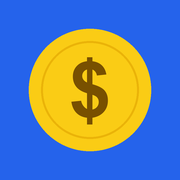
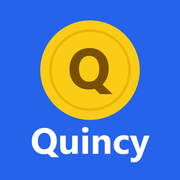
Íconos con el nombre Quincy y header sin el emoji

diff --git a/index.html b/index.html
@@ -22,11 +22,11 @@
       document.documentElement.dataset.theme = t;
     })();
   </script>
-  <link rel="stylesheet" href="styles.css?v=13">
+  <link rel="stylesheet" href="styles.css?v=14">
 </head>
 <body>
   <header class="topbar">
-    <h1 class="brand">💰 Presupuesto</h1>
+    <h1 class="brand">Quincy</h1>
     <span id="syncState" class="sync hidden" role="status" aria-live="polite"></span>
     <button id="installBtn" class="icon-btn hidden" type="button" aria-label="Instalar app" title="Instalar app">⬇</button>
     <button id="userBtn" class="icon-btn hidden" type="button" aria-label="Mi cuenta" title="Mi cuenta">👤</button>
@@ -433,7 +433,7 @@
   <div id="loader" class="loader hidden"><div></div></div>
 
   <script src="https://cdn.jsdelivr.net/npm/@supabase/supabase-js@2"></script>
-  <script src="config.js?v=13"></script>
-  <script src="app.js?v=13"></script>
+  <script src="config.js?v=14"></script>
+  <script src="app.js?v=14"></script>
 </body>
 </html>

diff --git a/sw.js b/sw.js
@@ -1,8 +1,8 @@
 // Service worker: guarda los archivos de la app para que abra sin conexión.
 // Los datos de Supabase no pasan por aquí; app.js los guarda en el dispositivo.
-const CACHE = "presupuesto-v13";   // súbelo en cada versión nueva (y el ?v= de index.html)
+const CACHE = "presupuesto-v14";   // súbelo en cada versión nueva (y el ?v= de index.html)
 const ASSETS = [
-  "./", "./index.html", "./styles.css?v=13", "./app.js?v=13", "./config.js?v=13", "./manifest.webmanifest",
+  "./", "./index.html", "./styles.css?v=14", "./app.js?v=14", "./config.js?v=14", "./manifest.webmanifest",
   "./icons/icon-192.png", "./icons/icon-512.png", "./icons/apple-touch-icon.png", "./icons/favicon-32.png",
   "https://cdn.jsdelivr.net/npm/@supabase/supabase-js@2",
 ];
